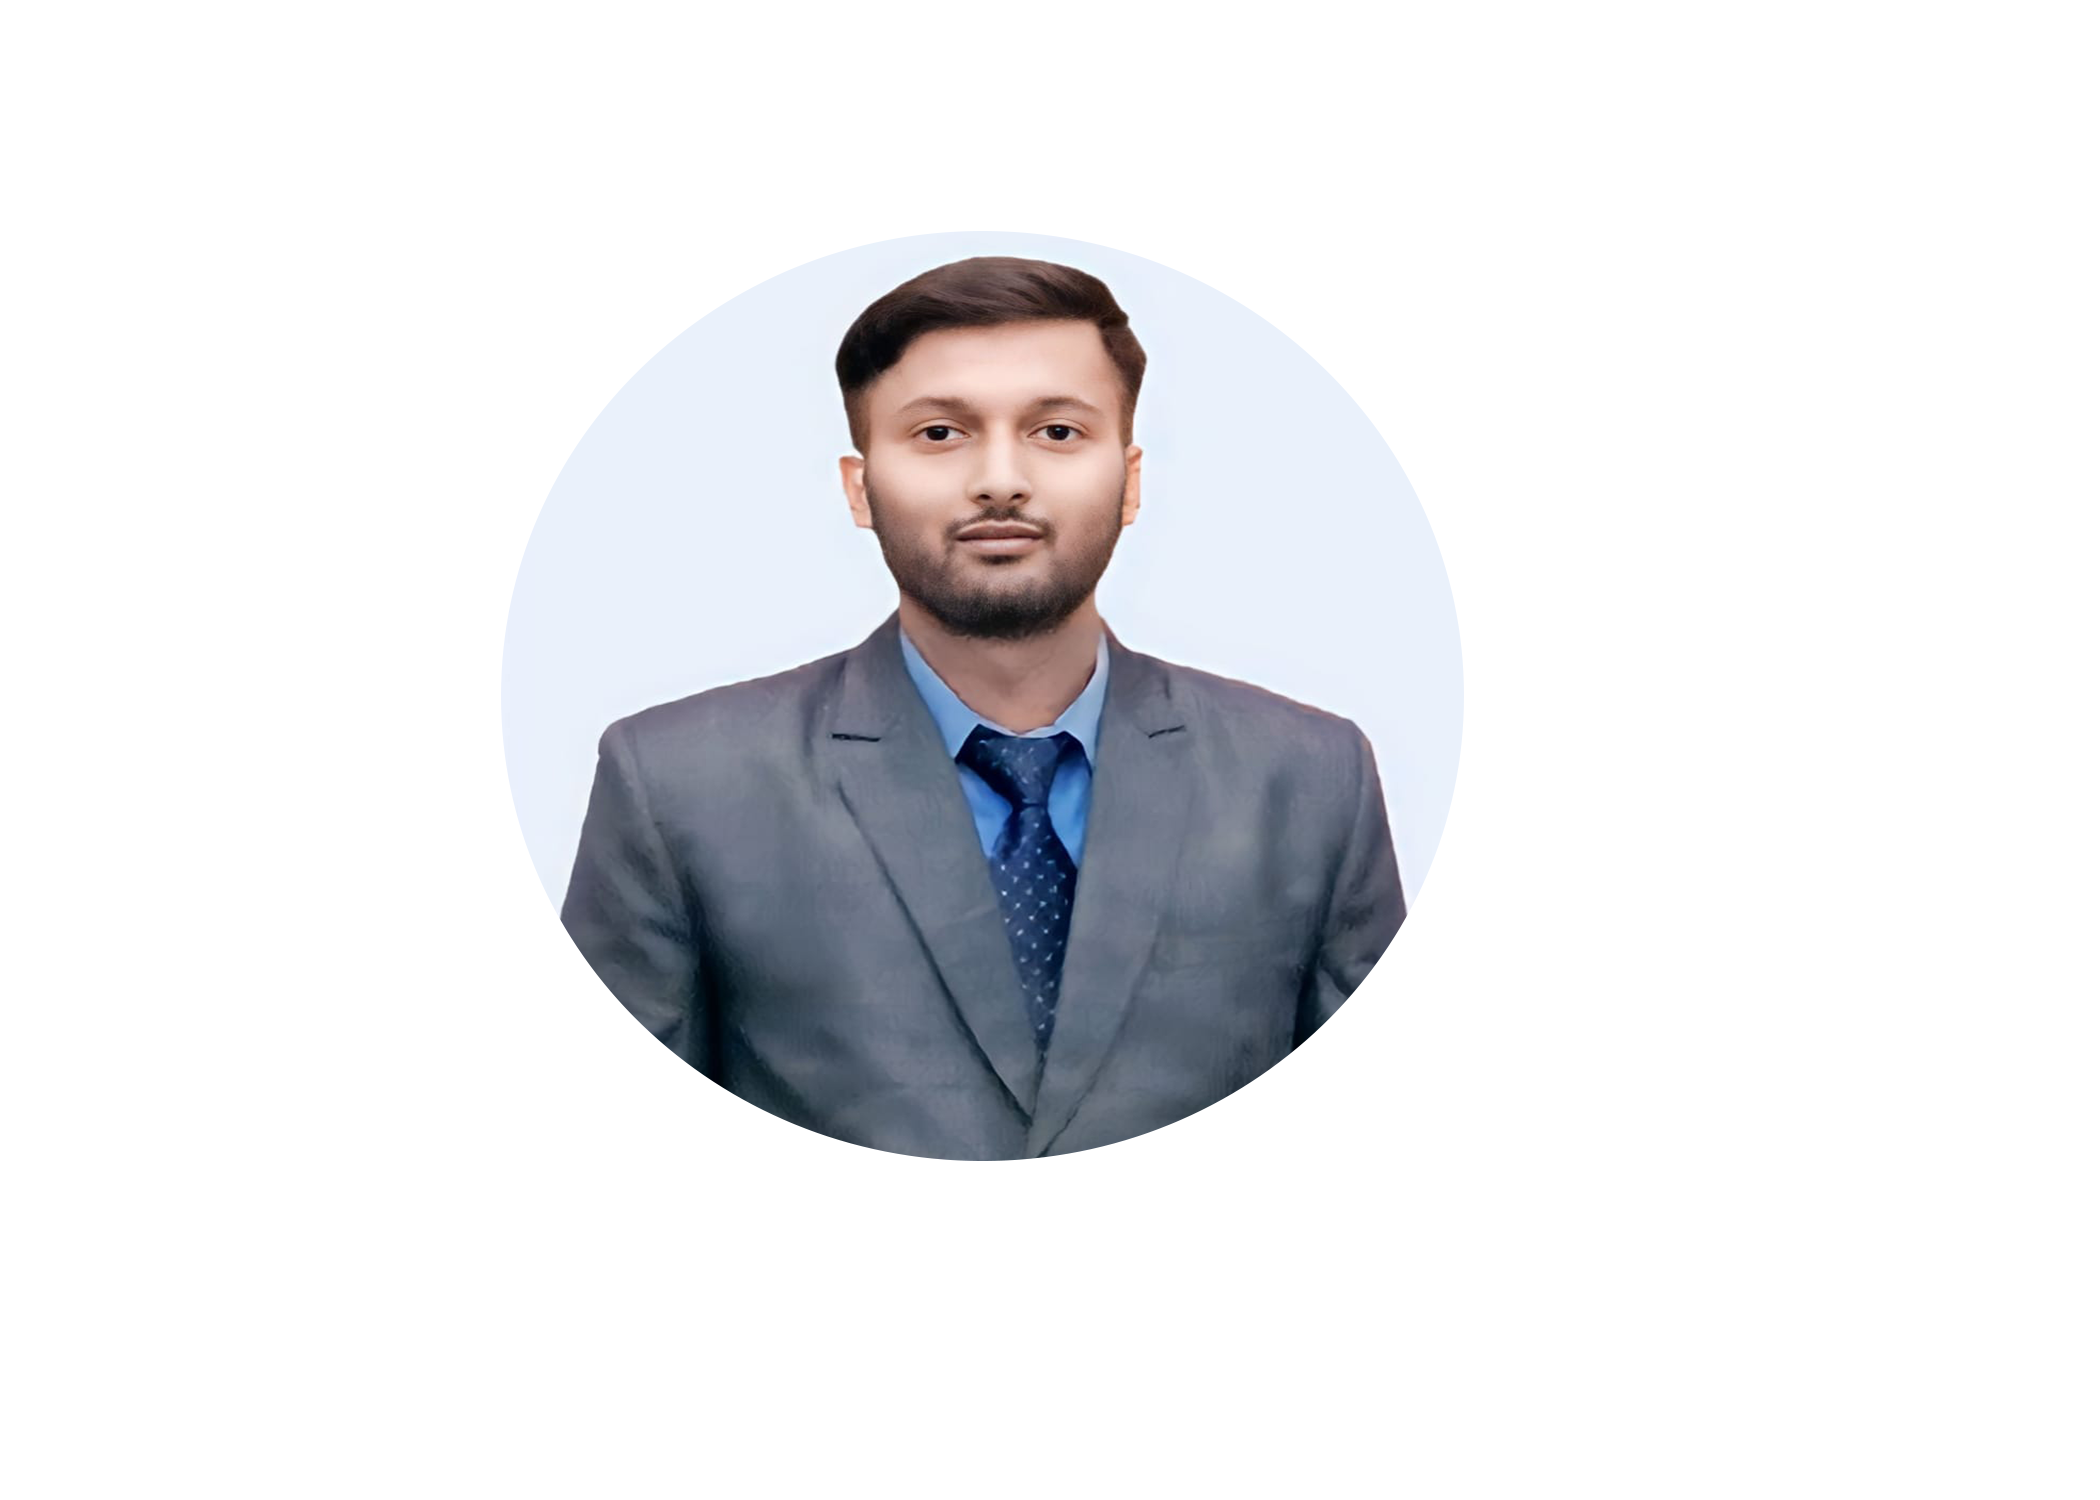
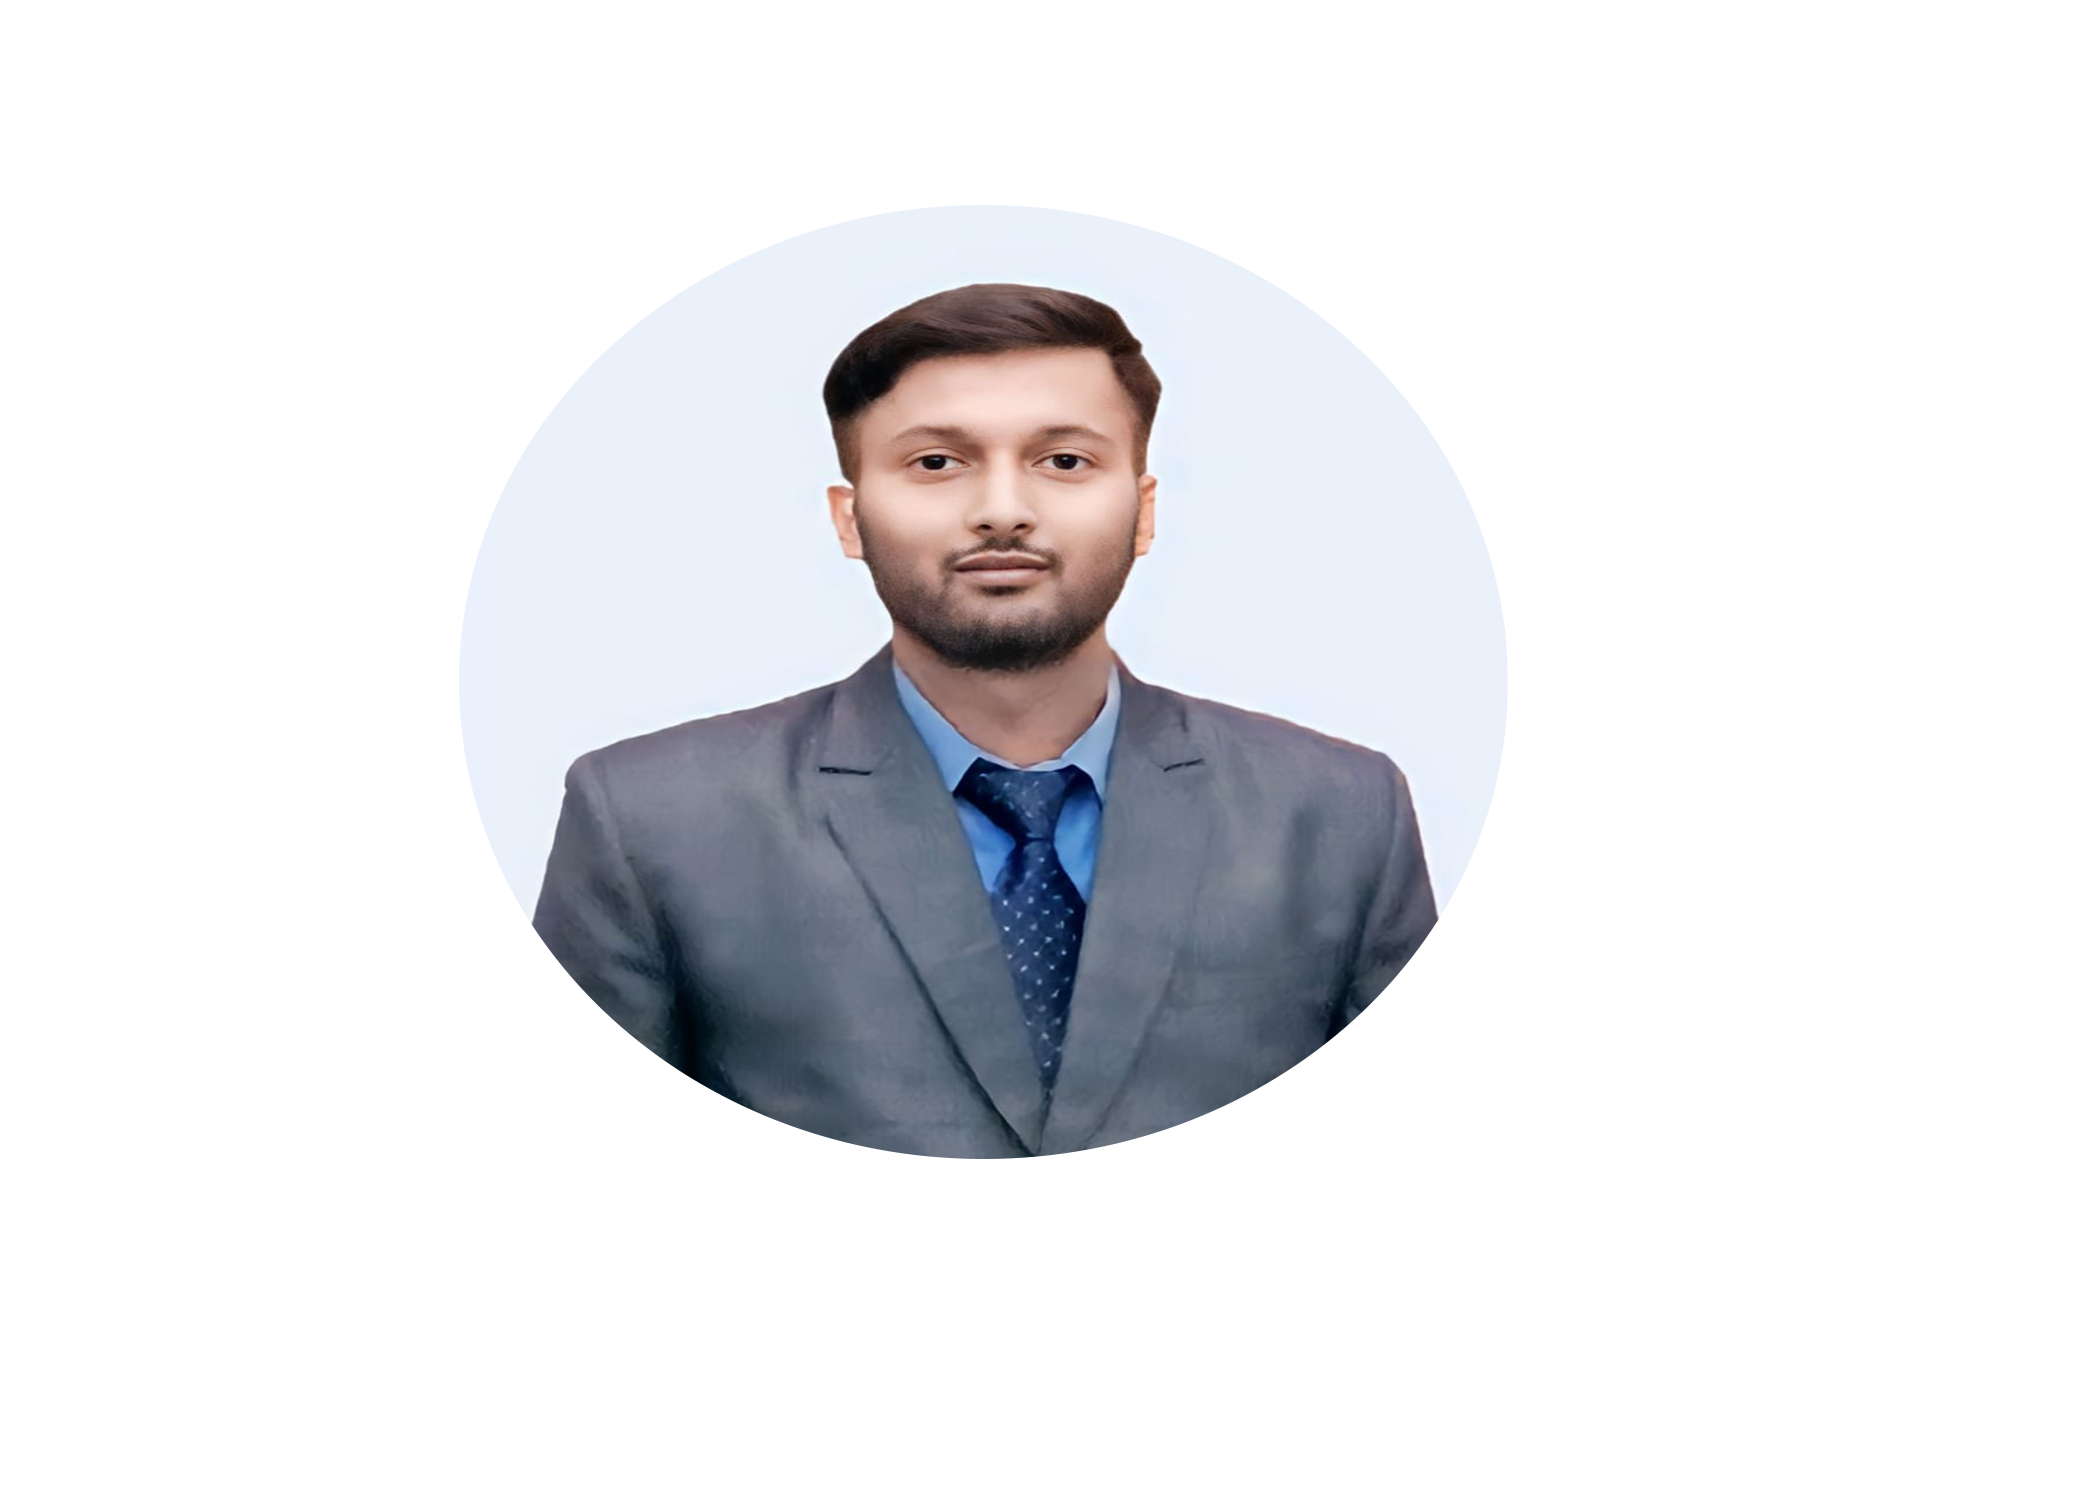
all aded

Changed region(s): [[0.2476, 0.1533, 0.7119, 0.7667]]

diff --git a/src/components/Hero/Hero.module.css b/src/components/Hero/Hero.module.css
@@ -52,7 +52,7 @@
 }
 
 .heroImg {
-  width: 250%;
+  width: 200%;
   z-index: 1;
   animation-name: floating;
   animation-duration: 3s;
